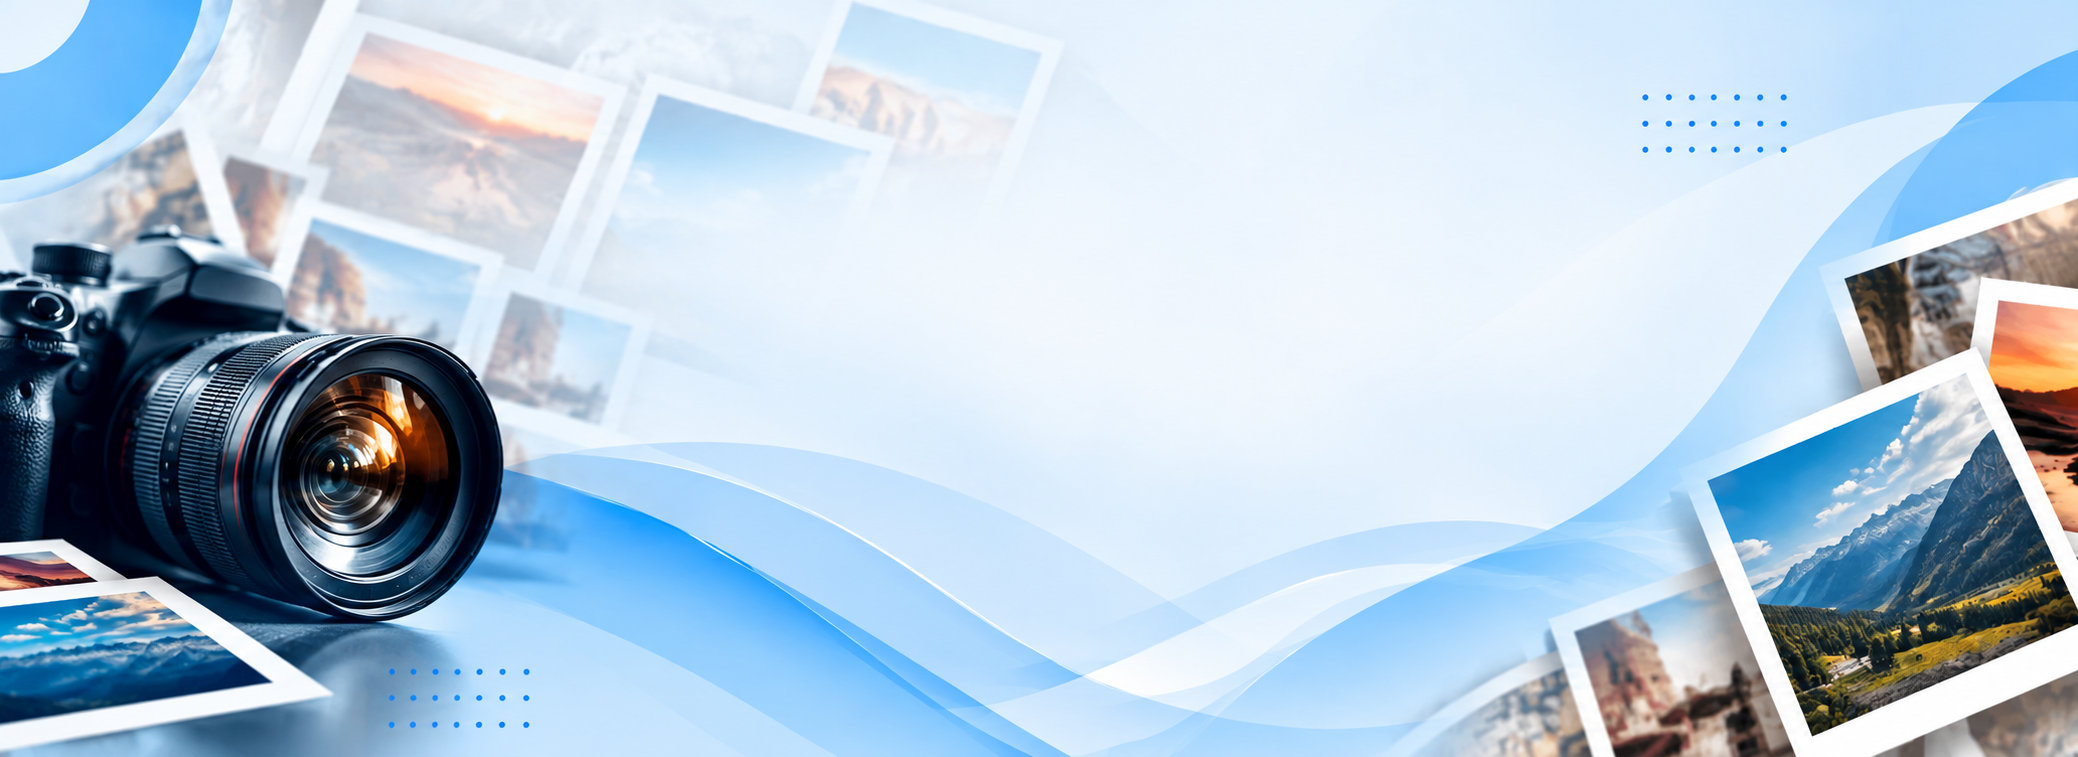
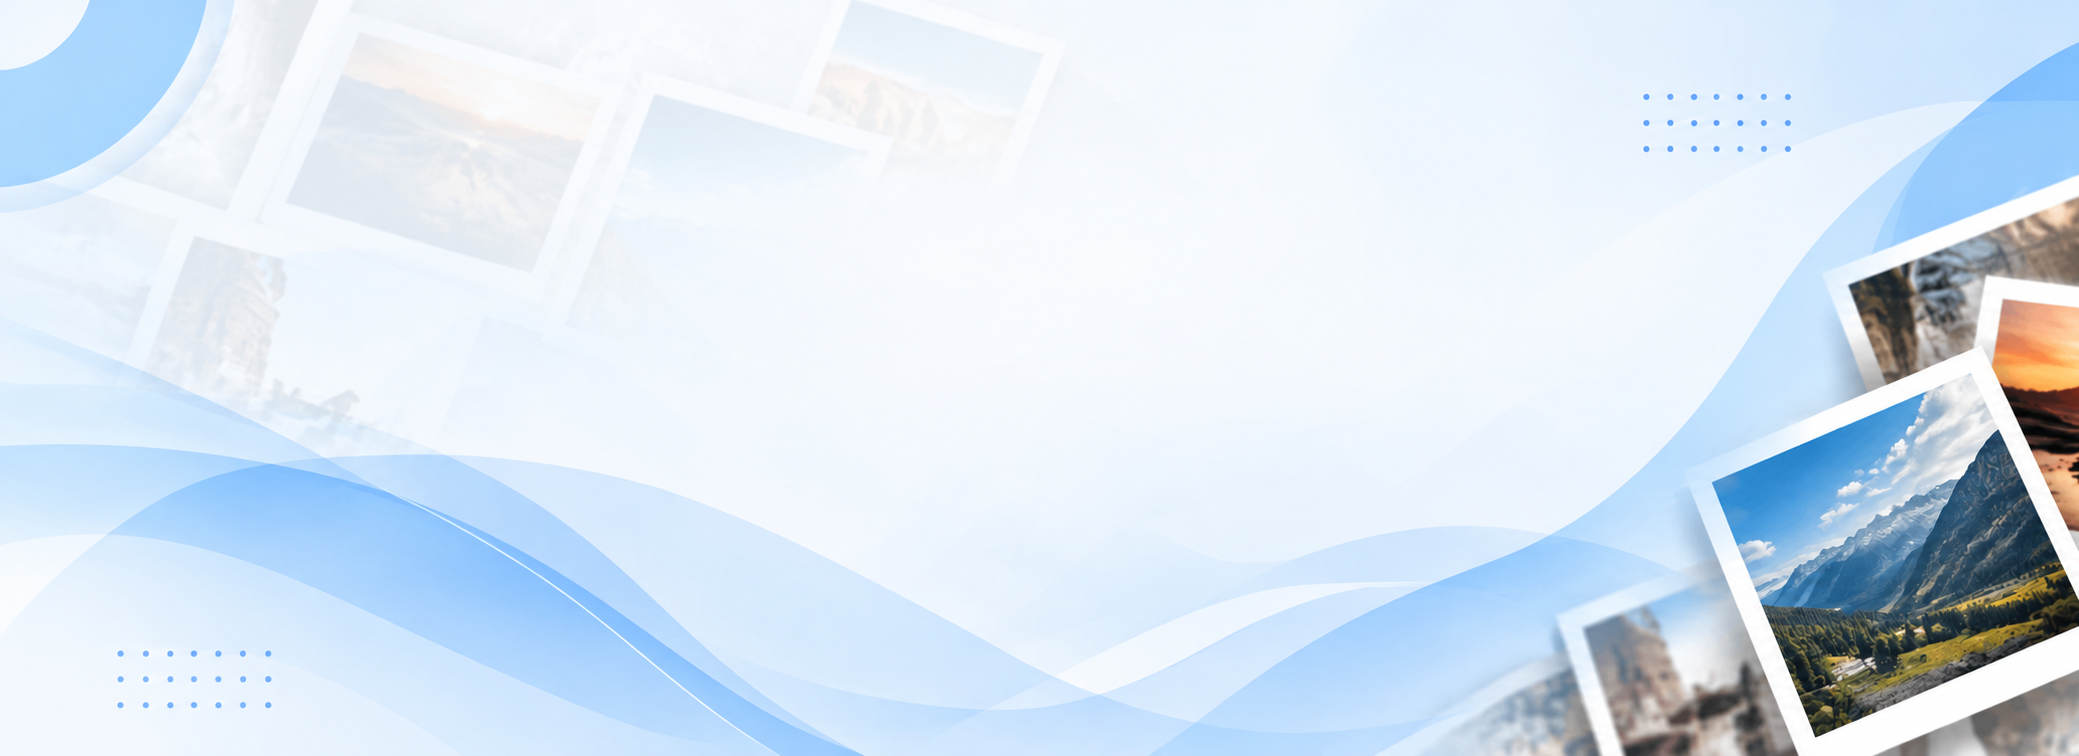
Redesign gallery section with modern UI and hover effects

diff --git a/components/Others/Gallery/Gallery.tsx b/components/Others/Gallery/Gallery.tsx
@@ -1,3 +1,6 @@
+"use client";
+
+import { useState } from "react";
 type GalleryImage = {
   src: string;
   title: string;
@@ -5,51 +8,176 @@ type GalleryImage = {
 };
 
 type GalleryProps = {
-  bannerTitle: string;
-  bannerSubtitle?: string;
   images?: GalleryImage[];
 };
 
-const Gallery = ({ bannerTitle, bannerSubtitle, images = [] }: GalleryProps) => {
-  return (
-    <div>
-      {/* Banner Section */}
-      <div className="w-full bg-gradient-to-r from-blue-900 to-blue-500 text-white py-16 flex flex-col items-center justify-center">
-        <h1 className="text-4xl font-bold">{bannerTitle}</h1>
-        {bannerSubtitle && <p className="text-lg mt-2">{bannerSubtitle}</p>}
-      </div>
+const categories = [
+  "All",
+  "Team Building",
+  "Training",
+  "Culture",
+  "Leadership",
+] as const;
 
-      {/* Gallery Section */}
-      <div className="p-8 bg-gray-50">
-        <h2 className="text-2xl font-bold text-gray-800 mb-6 text-center">
-          Gallery
-        </h2>
-        <div className="grid grid-cols-1 sm:grid-cols-2 lg:grid-cols-3 xl:grid-cols-4 gap-6">
-          {images.map((image, index) => (
-            <div
-              key={index}
-              className="relative overflow-hidden rounded-lg shadow-md group hover:shadow-xl transition-shadow duration-300"
+type GalleryCategory = (typeof categories)[number];
+
+const getCategory = (title: string): Exclude<GalleryCategory, "All"> => {
+  const normalizedTitle = title.toLowerCase();
+
+  if (normalizedTitle.includes("training")) return "Training";
+  if (normalizedTitle.includes("cultural")) return "Culture";
+  if (normalizedTitle.includes("leadership")) return "Leadership";
+  return "Team Building";
+};
+
+const Gallery = ({ images = [] }: GalleryProps) => {
+  const [activeCategory, setActiveCategory] =
+    useState<GalleryCategory>("All");
+  const [showAllImages, setShowAllImages] = useState(false);
+  const filteredImages =
+    activeCategory === "All"
+      ? images
+      : images.filter((image) => getCategory(image.title) === activeCategory);
+
+  return (
+    <>
+      <section
+        className="relative flex min-h-[390px] items-center justify-center overflow-hidden bg-cover bg-center px-5 py-16 sm:min-h-[460px] sm:px-8 lg:min-h-[clamp(460px,36.4vw,728px)]"
+        style={{ backgroundImage: "url('/images/gallary.png')" }}
+      >
+        <div className="w-full max-w-[1450px] text-center">
+          <div className="mb-5 flex items-center justify-center gap-4 text-[#102b4e] sm:mb-6 sm:gap-8">
+            <span className="h-px w-12 bg-[#102b4e]/60 sm:w-20 lg:w-28" />
+            <svg
+              aria-hidden="true"
+              className="h-11 w-11 sm:h-14 sm:w-14"
+              viewBox="0 0 48 48"
+              fill="none"
+              xmlns="http://www.w3.org/2000/svg"
             >
-              <img
-                src={image.src}
-                alt={image.title}
-                className="w-full h-64 object-cover group-hover:scale-110 transition-transform duration-300"
+              <rect
+                x="12"
+                y="5"
+                width="27"
+                height="25"
+                rx="2.5"
+                stroke="currentColor"
+                strokeWidth="2.4"
               />
-              <div className="absolute inset-0 bg-black bg-opacity-40 flex items-center justify-center opacity-0 group-hover:opacity-100 transition-opacity duration-300">
-                <div className="text-center">
-                  <h3 className="text-white text-lg font-semibold">
-                    {image.title}
-                  </h3>
-                  <p className="text-gray-300 text-sm mt-1">
-                    {image.description}
-                  </p>
+              <circle cx="31" cy="12.5" r="2.5" stroke="currentColor" strokeWidth="2.2" />
+              <rect
+                x="5"
+                y="17"
+                width="27"
+                height="25"
+                rx="2.5"
+                fill="white"
+                stroke="currentColor"
+                strokeWidth="2.4"
+              />
+              <circle cx="13" cy="24" r="2.2" stroke="currentColor" strokeWidth="2" />
+              <path
+                d="M7.5 37L15.5 29L20 33.5L24 29.5L30 35.5"
+                stroke="currentColor"
+                strokeWidth="2.4"
+                strokeLinecap="round"
+                strokeLinejoin="round"
+              />
+            </svg>
+            <span className="h-px w-12 bg-[#102b4e]/60 sm:w-20 lg:w-28" />
+          </div>
+          <h1 className="text-[clamp(2rem,5vw,4.5rem)] leading-[1.12] font-extrabold tracking-tight text-[#102b4e] lg:whitespace-nowrap">
+            Explore Our{" "}
+            <span className="text-[#f47716]">Beautiful Moments</span>
+          </h1>
+          <p className="mx-auto mt-4 max-w-3xl text-base leading-7 text-slate-600 sm:text-xl sm:leading-8">
+            Discover the wonders captured through our lens.
+          </p>
+        </div>
+      </section>
+
+      <section className="bg-[#f6f9fc] px-4 py-12 sm:px-6 sm:py-16 lg:px-8">
+        <div className="mx-auto max-w-[1400px]">
+          <header className="mb-8 text-center sm:mb-10">
+            <div className="mb-3 flex items-center justify-center gap-3 text-sm font-bold tracking-[0.2em] text-[#f47716] sm:text-base">
+              <span className="h-0.5 w-10 bg-[#f47716] sm:w-12" />
+              <span>OUR MOMENTS</span>
+              <span className="h-0.5 w-10 bg-[#f47716] sm:w-12" />
+            </div>
+            <h1 className="text-[clamp(2.5rem,4.5vw,3.75rem)] leading-[1.05] font-extrabold tracking-tight text-[#102b4e]">
+              Gallery
+            </h1>
+            <p className="mx-auto mt-4 max-w-4xl text-base leading-7 text-slate-600 sm:text-lg sm:leading-8">
+              A closer look at our people, events and milestones.
+            </p>
+          </header>
+          <div className="mb-8 flex flex-wrap justify-center gap-2.5 sm:mb-10">
+            {categories.map((category) => (
+              <button
+                key={category}
+                type="button"
+                onClick={() => {
+                  setActiveCategory(category);
+                  setShowAllImages(false);
+                }}
+                aria-pressed={activeCategory === category}
+                className={`rounded-full border px-4 py-2 text-sm font-semibold transition-colors sm:px-5 ${
+                  activeCategory === category
+                    ? "border-[#1479b8] bg-[#1479b8] text-white"
+                    : "border-[#d5e2ed] bg-white text-[#17324f] hover:border-[#1479b8] hover:text-[#1479b8]"
+                }`}
+              >
+                {category}
+              </button>
+            ))}
+          </div>
+
+          <div className="grid grid-cols-1 gap-5 sm:grid-cols-2 lg:grid-cols-3">
+            {filteredImages.map((image, index) => (
+              <div
+                key={image.src}
+                className={`group relative aspect-[2/1] overflow-hidden rounded-2xl bg-slate-200 shadow-[0_8px_24px_rgba(16,43,78,0.12)] transition-shadow duration-300 hover:shadow-[0_14px_32px_rgba(16,43,78,0.2)] focus-visible:outline-2 focus-visible:outline-offset-4 focus-visible:outline-[#1479b8] ${
+                  !showAllImages && index >= 12 ? "hidden" : ""
+                }`}
+                tabIndex={0}
+              >
+                <img
+                  src={image.src}
+                  alt={image.title}
+                  loading={index < 4 ? "eager" : "lazy"}
+                  className="size-full object-cover transition-transform duration-500 group-hover:scale-105"
+                />
+                <div className="absolute inset-x-0 bottom-0 bg-gradient-to-t from-[#071b35]/95 via-[#071b35]/60 to-transparent px-5 pb-5 pt-16 transition-all duration-300 group-hover:pt-24 group-focus-visible:pt-24">
+                  <div className="translate-y-3 transition-transform duration-300 group-hover:translate-y-0 group-focus-visible:translate-y-0">
+                    <p className="mb-1 text-xs font-bold uppercase tracking-[0.16em] text-sky-300">
+                      {getCategory(image.title)}
+                    </p>
+                    <h3 className="text-lg leading-snug font-bold text-white">
+                      {image.title}
+                    </h3>
+                    <p className="mt-2 max-h-0 overflow-hidden text-sm leading-6 text-white/85 opacity-0 transition-all duration-300 group-hover:max-h-32 group-hover:opacity-100 group-focus-visible:max-h-32 group-focus-visible:opacity-100">
+                      {image.description}
+                    </p>
+                  </div>
                 </div>
               </div>
+            ))}
+          </div>
+
+          {!showAllImages && filteredImages.length > 12 && (
+            <div className="mt-10 text-center">
+              <button
+                type="button"
+                onClick={() => setShowAllImages(true)}
+                className="rounded-full bg-[#1479b8] px-7 py-3 font-semibold text-white shadow-md transition-colors hover:bg-[#102b4e] focus-visible:outline-2 focus-visible:outline-offset-4 focus-visible:outline-[#1479b8]"
+              >
+                View more
+              </button>
             </div>
-          ))}
+          )}
         </div>
-      </div>
-    </div>
+      </section>
+    </>
   );
 };
 

diff --git a/components/Others/Gallery/GalleryData.tsx b/components/Others/Gallery/GalleryData.tsx
@@ -391,8 +391,6 @@ const images = [
 export default function GalleryData() {
   return (
     <Gallery
-      bannerTitle="Explore Our Beautiful Moments"
-      bannerSubtitle="Discover the wonders captured through our lens."
       images={images}
     />
   );
